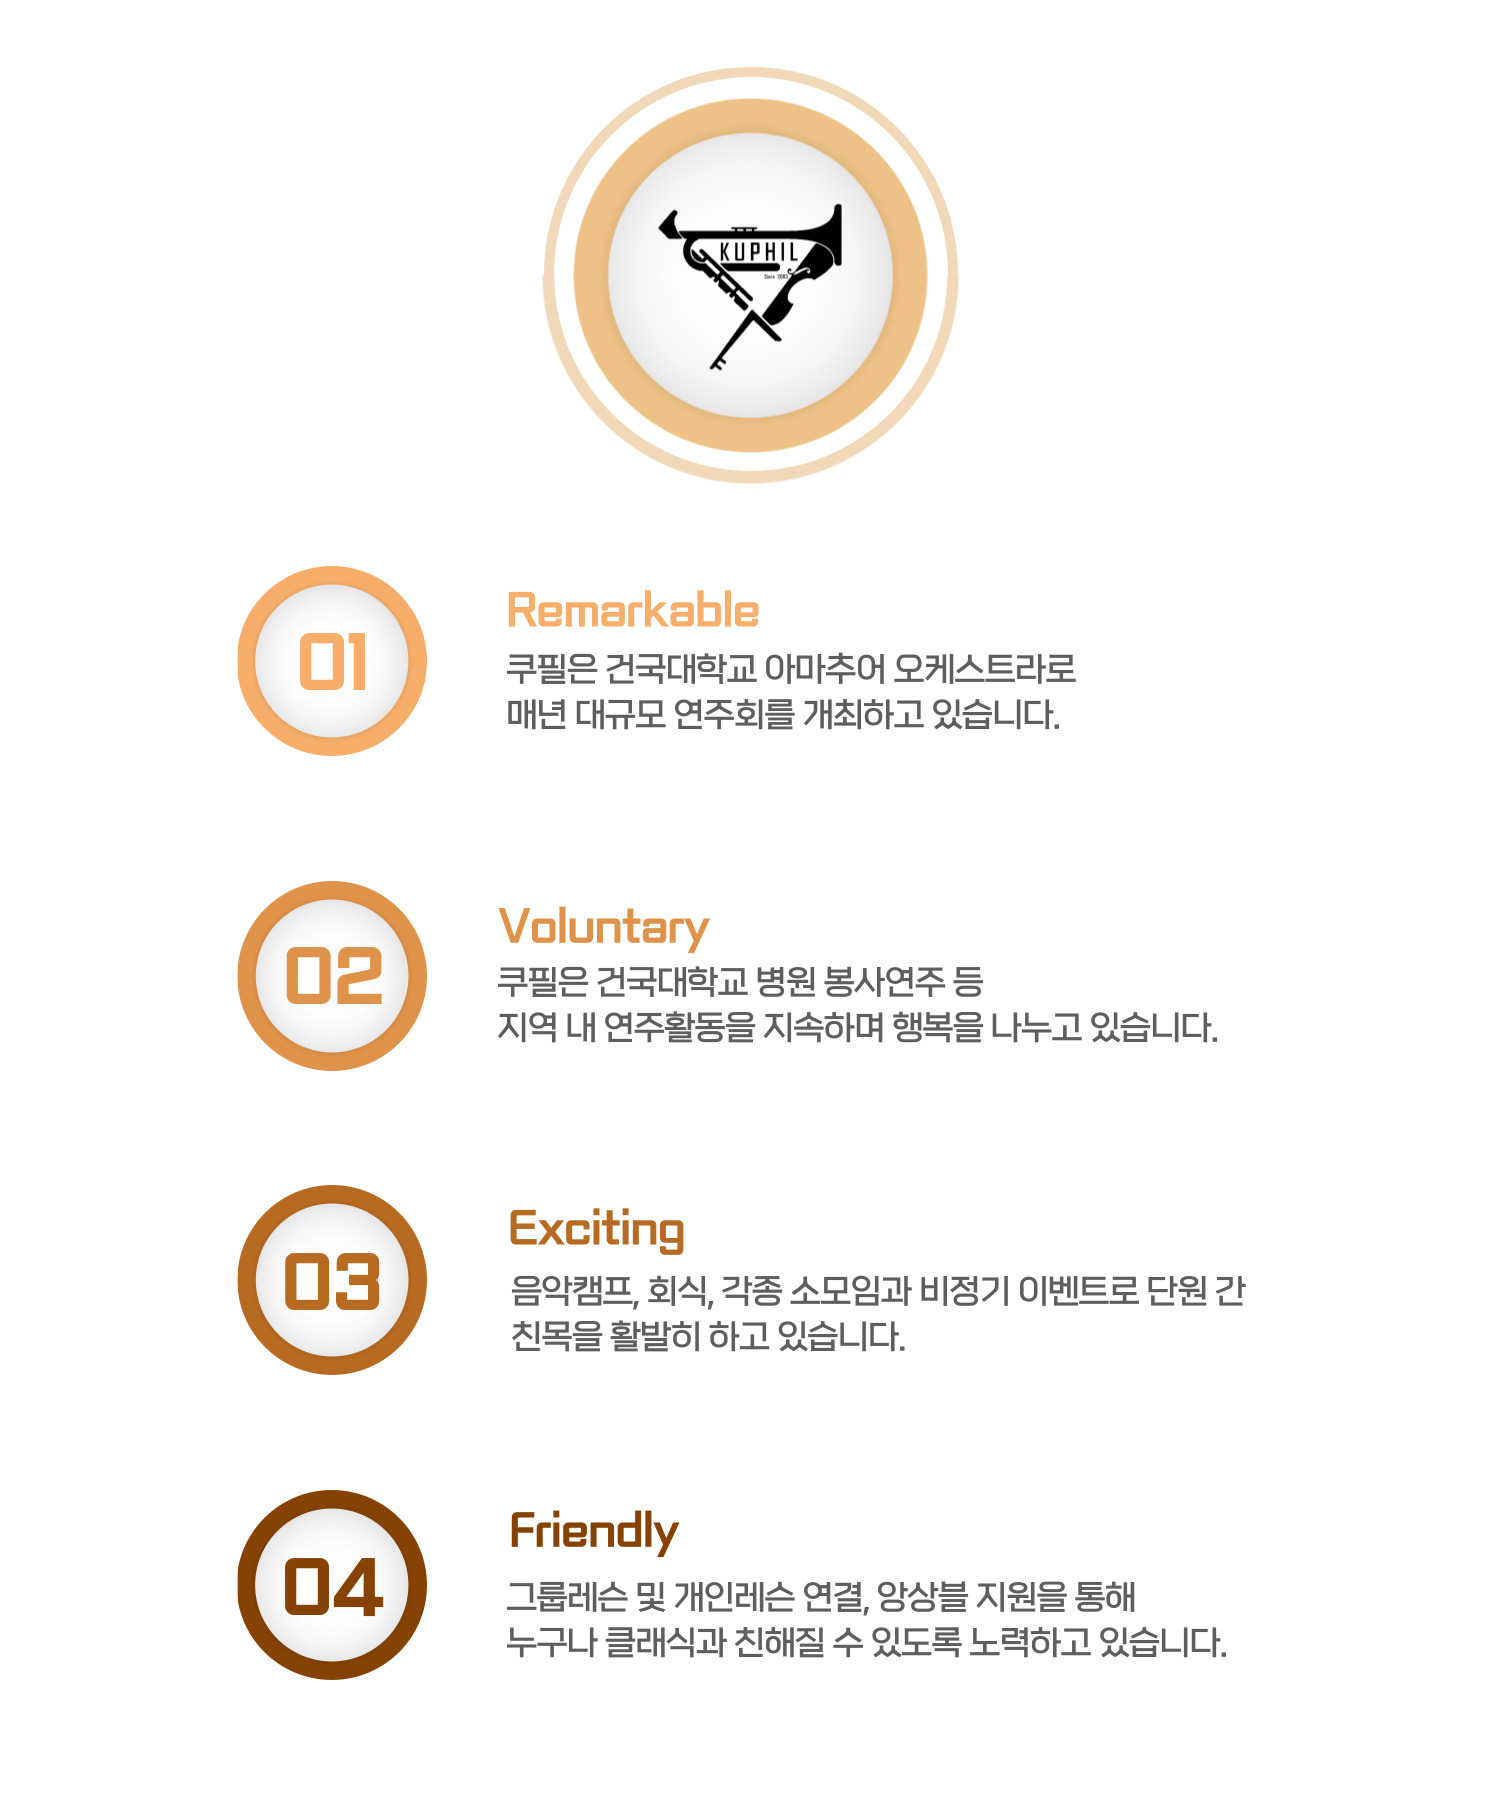
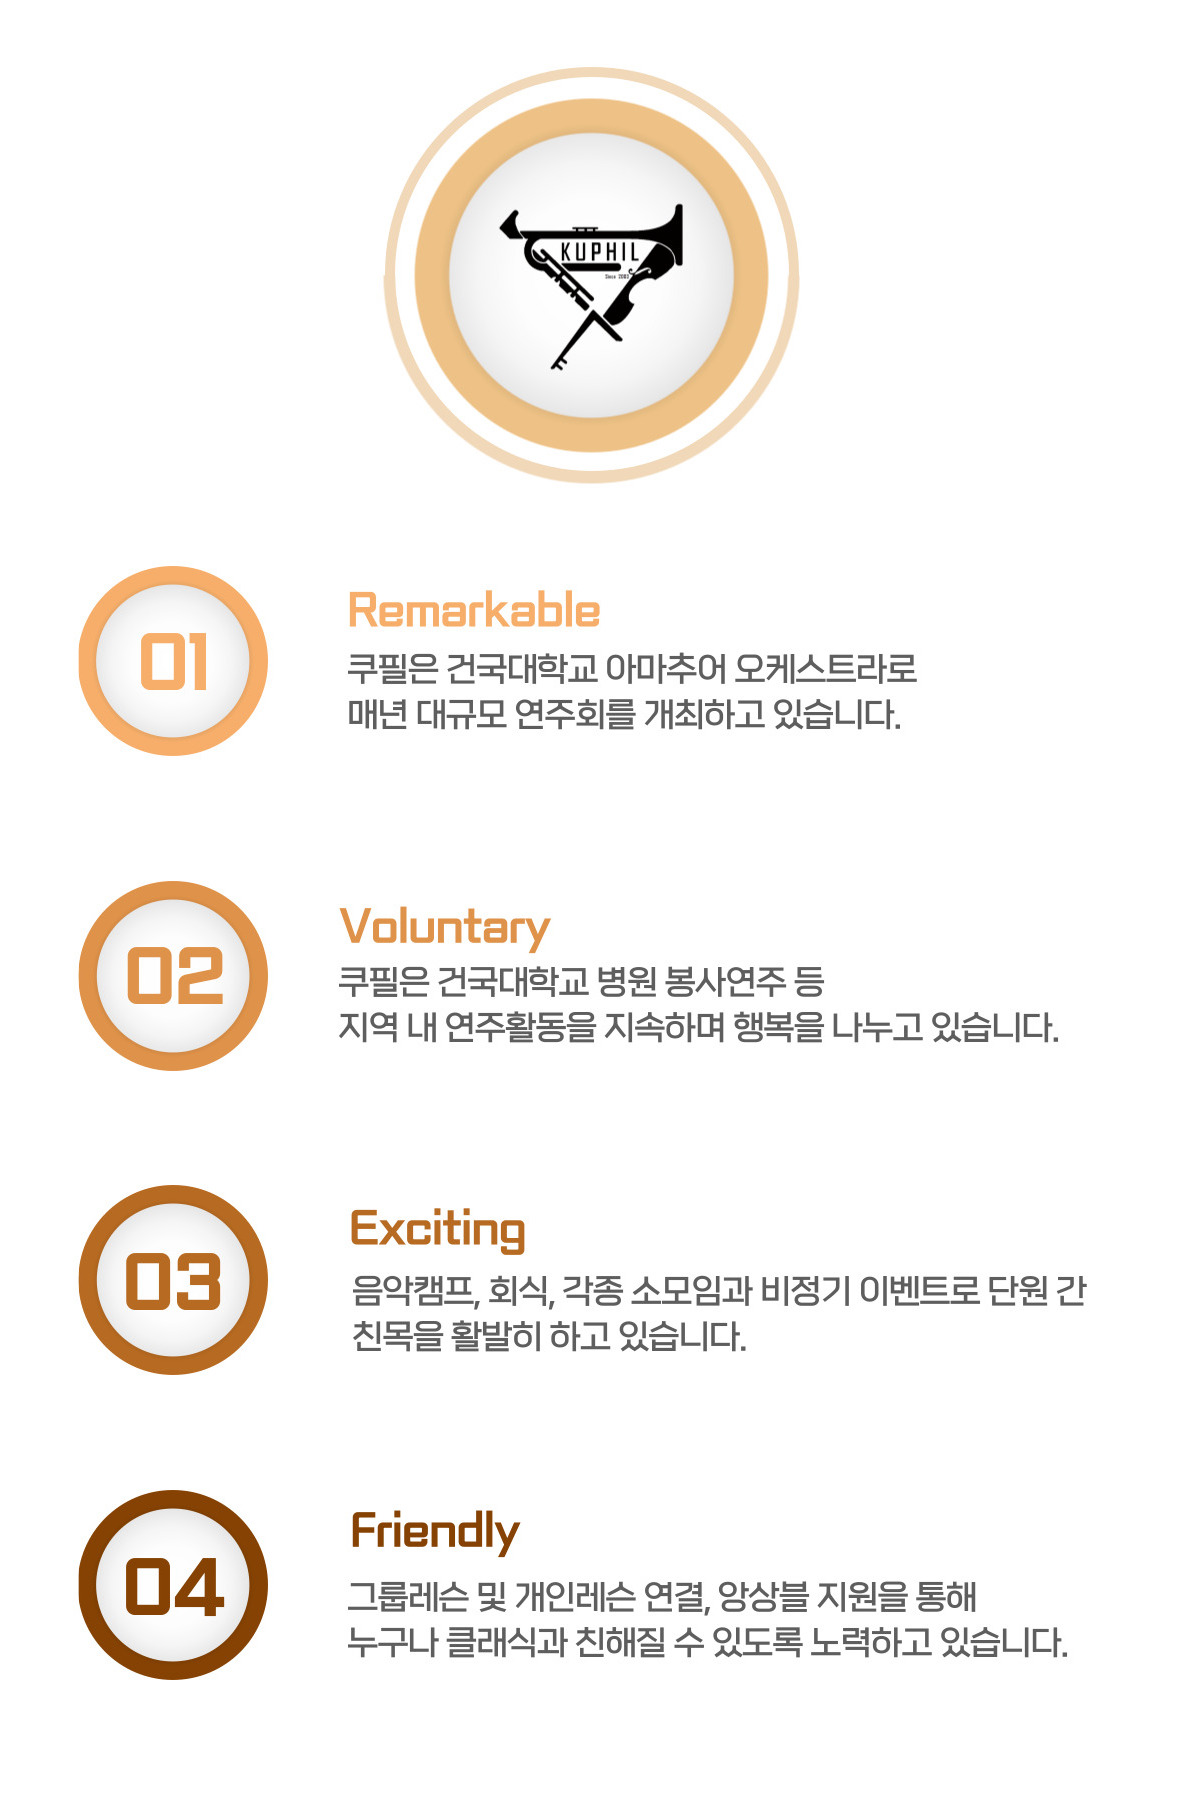
[introduce] 각종 수정 및 불필요한 branch 삭제

diff --git a/public/html/introduce.html b/public/html/introduce.html
@@ -90,7 +90,7 @@
                 <!--인사말이랑 교수님/임원진/동아리 사진 받아서 넣기-->
                 <!--<div id="square"></div>-->
                 <div class="professor_welcome">
-                    <article>"건국인들의 열정이 모여 만들어진 오케스트라, KUPhil을 소개합니다."</article><br><br>
+                    <article>"건국인들의 열정이 모여 만들어진 오케스트라, KUPhil을 소개합니다."</article><br>
                         건국대학교 내 아마추어 오케스트라 동아리 KU Philharmonic orchestra(이하 KUPhil)는 정기연주회, 음악캠프, 창립제, 병원 연주 등 활발한 연주 활동을 지속하며 대학 문화 내 클래식 음악 전파를 위해 노력하고 있습니다.<br><br>
     
                         2003년, 저는 클래식 음악에 대한 애정을 표출하기 위해 10여 명의 건국대학교 재학생들과 함께 오케스트라 동아리 'Serenade'를 결성했습니다. 소규모로 시작했던 Serenade에서의 모임은 해를 거듭하며 점차 그 규모를 키워 나갔습니다. 그리고 창립 10주년을 맞은 해인 2013년 3월, Serenade는 'KUPhil'로 개칭하며 새로운 시작을 맞았습니다.<br><br>
@@ -109,7 +109,7 @@
     
         <div id="introduce_image">
             <span>About KUPhil</span>
-            <img src="./image/introduce/소개1.png" alt="쿠필 소개 이미지" class="whatKuphil1">
+            <img src="./image/introduce/소개1.jpeg" alt="쿠필 소개 이미지" class="whatKuphil1">
             <img src="./image/introduce/소개2.jpg" alt="쿠필 소개 이미지" class="whatKuphil2">
         </div>
     

diff --git a/public/css/introduce.css b/public/css/introduce.css
@@ -343,4 +343,8 @@ article {
     .stairs{
         line-height:15px;
     }
+
+    article{
+        font-size:1.6rem;
+    }
 }
